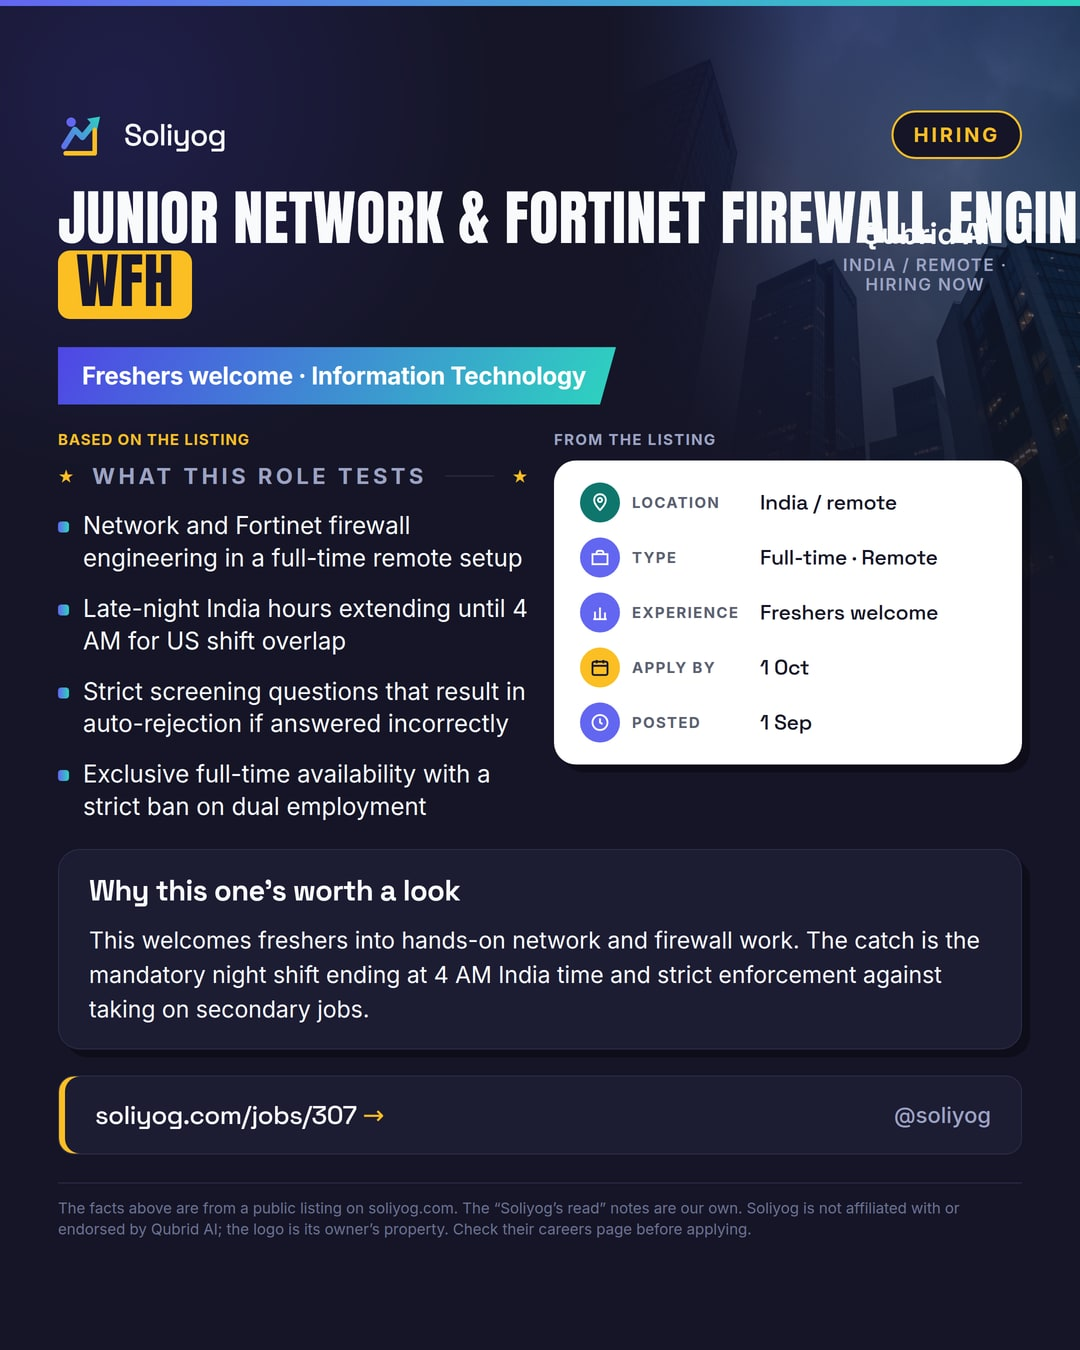
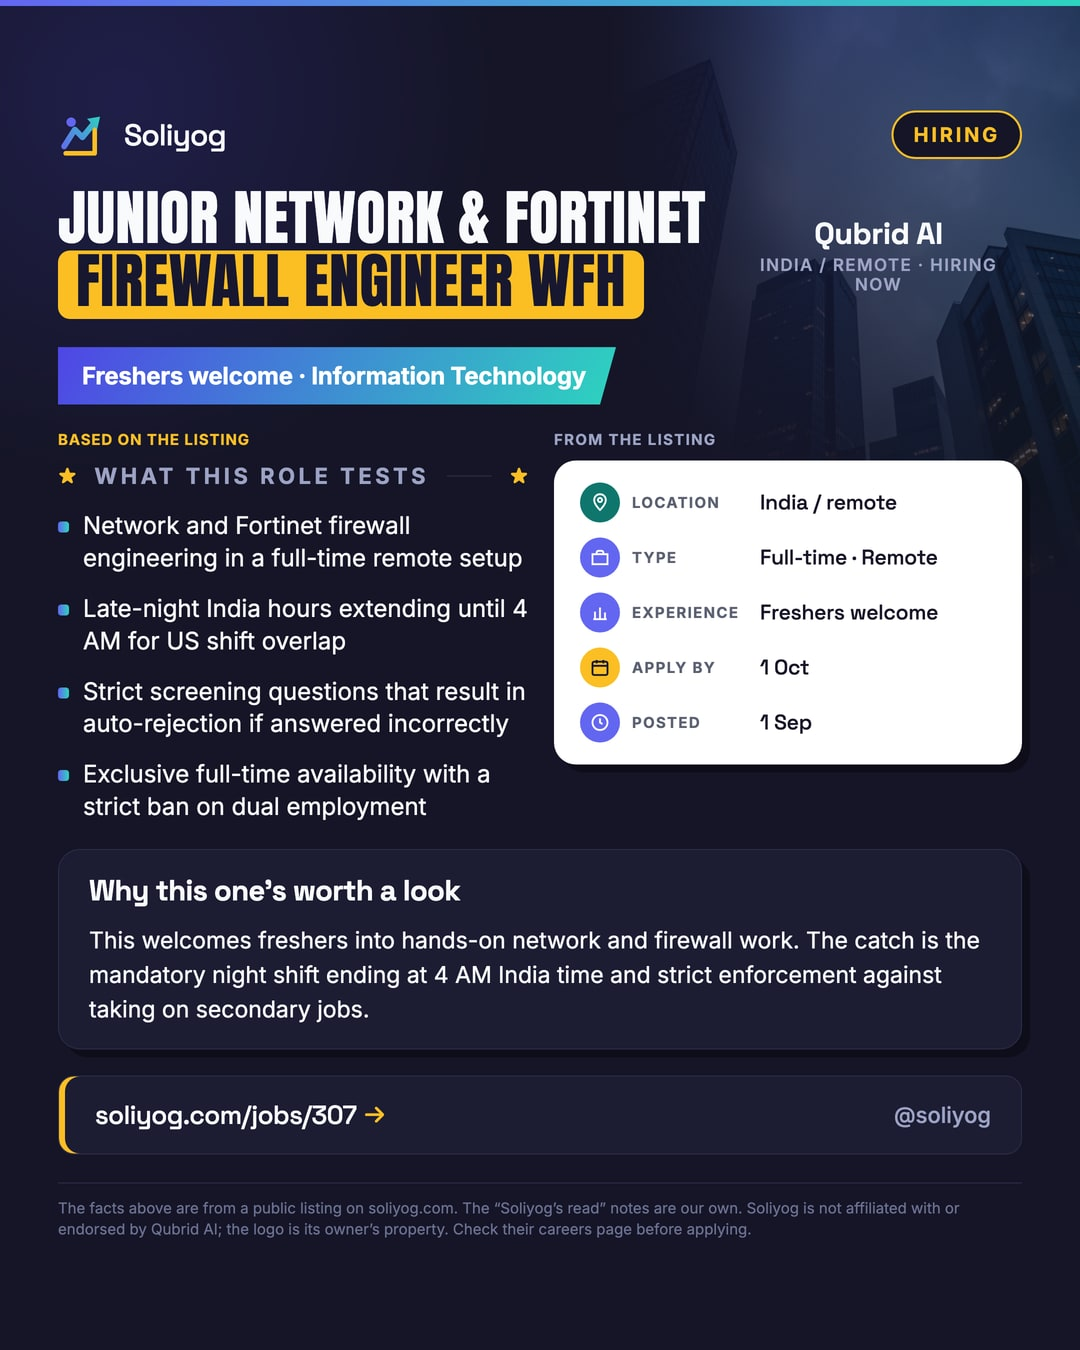
fix(soliyog-poster): don't highlight a short trailing tag word as the hero headline
Line-split logic always peeled off exactly the title's last word onto line 2
with the big amber highlight. For titles ending in a short suffix tag (e.g.
"... WFH") that dumps every real word onto line 1, which can't fit even at
the 60px floor and overflows into the company lockup (2026-09-04 Junior
Network & Fortinet Firewall Engineer WFH post, live on FB+IG with this bug).

Now tries a 1-word tail first, then widens to 2 or 3 words until one fits.
Regenerated this post's PNG/JPG with the fix.

diff --git a/social/soliyog/templates/drive-poster-1080x1350.html b/social/soliyog/templates/drive-poster-1080x1350.html
@@ -239,21 +239,32 @@
     // role: "Cloud Computing Engineer" -> Cloud Computing<br><span class="l2 hl">Engineer</span>
     // Runs after the company lockup so the space it leaves is known, then shrinks the
     // hero type until each logical line fits on one row (keeps every poster to 2 lines).
+    // Tries a 1-word tail first (the common "headline word" case), then widens to a
+    // 2- or 3-word tail when the title ends in a short suffix tag (e.g. "... WFH",
+    // "... Remote") that would otherwise dump every real word onto an unfittable line 1.
     if (d.role) {
       const w = String(d.role).trim().split(/\s+/);
       const roleEl = document.querySelector('.role');
-      roleEl.innerHTML = w.length > 1
-        ? '<span class="l1">' + w.slice(0, -1).join(' ') + '</span><br><span class="l2 hl">' + w[w.length - 1] + '</span>'
-        : '<span class="l2 hl">' + w[0] + '</span>';
       const hero = roleEl.parentElement;
       const gap = parseFloat(getComputedStyle(hero).columnGap || getComputedStyle(hero).gap) || 36;
-      const parts = roleEl.querySelectorAll('span');
-      for (let fs = 116; fs >= 60; fs -= 2) {
-        roleEl.style.fontSize = fs + 'px';
-        const avail = hero.clientWidth - (c ? c.offsetWidth : 0) - gap - 4;
-        let fits = true;
-        for (const p of parts) if (p.scrollWidth > avail) { fits = false; break; }
-        if (fits) break;
+      const avail = hero.clientWidth - (c ? c.offsetWidth : 0) - gap - 4;
+      if (w.length === 1) {
+        roleEl.innerHTML = '<span class="l2 hl">' + w[0] + '</span>';
+      } else {
+        const maxTail = Math.min(3, w.length - 1);
+        let placed = false;
+        for (let tail = 1; tail <= maxTail && !placed; tail++) {
+          roleEl.innerHTML = '<span class="l1">' + w.slice(0, -tail).join(' ') + '</span><br>'
+            + '<span class="l2 hl">' + w.slice(-tail).join(' ') + '</span>';
+          const parts = roleEl.querySelectorAll('span');
+          for (let fs = 116; fs >= 60; fs -= 2) {
+            roleEl.style.fontSize = fs + 'px';
+            let fits = true;
+            for (const p of parts) if (p.scrollWidth > avail) { fits = false; break; }
+            if (fits) { placed = true; break; }
+          }
+        }
+        // last resort: widest tail tried, smallest size — same fallback as before the fix
       }
     }
   })();
